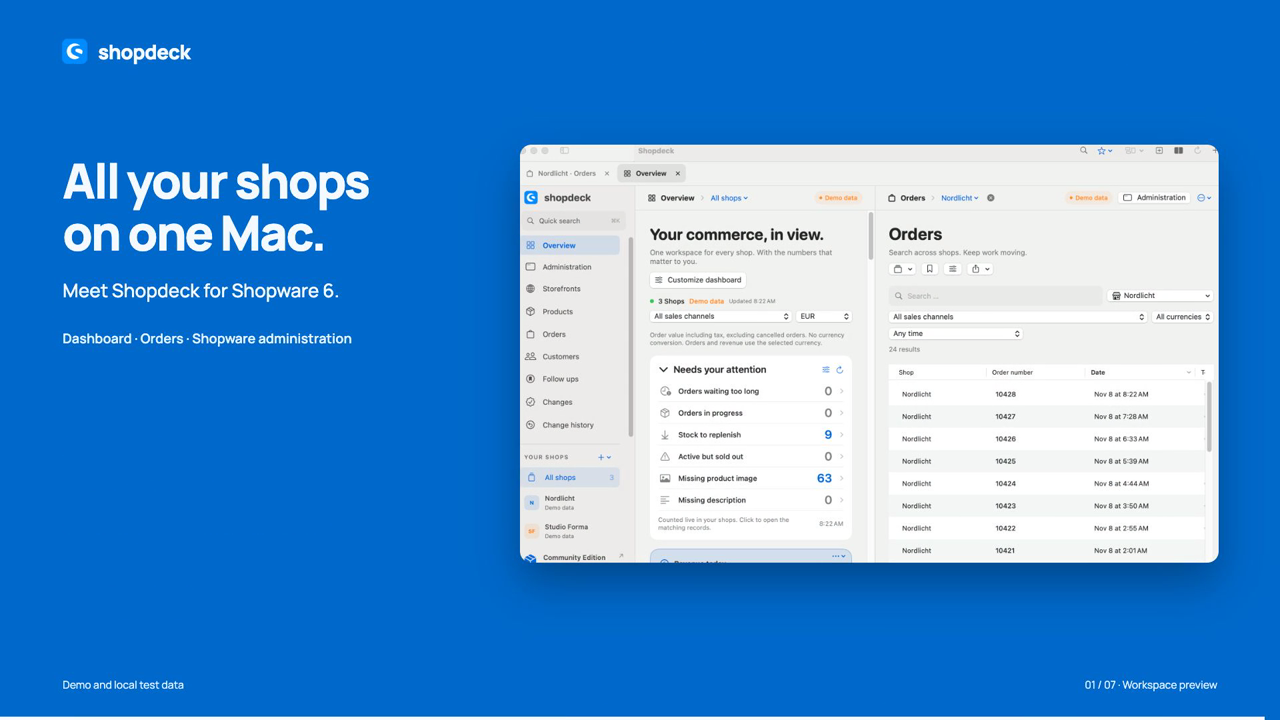
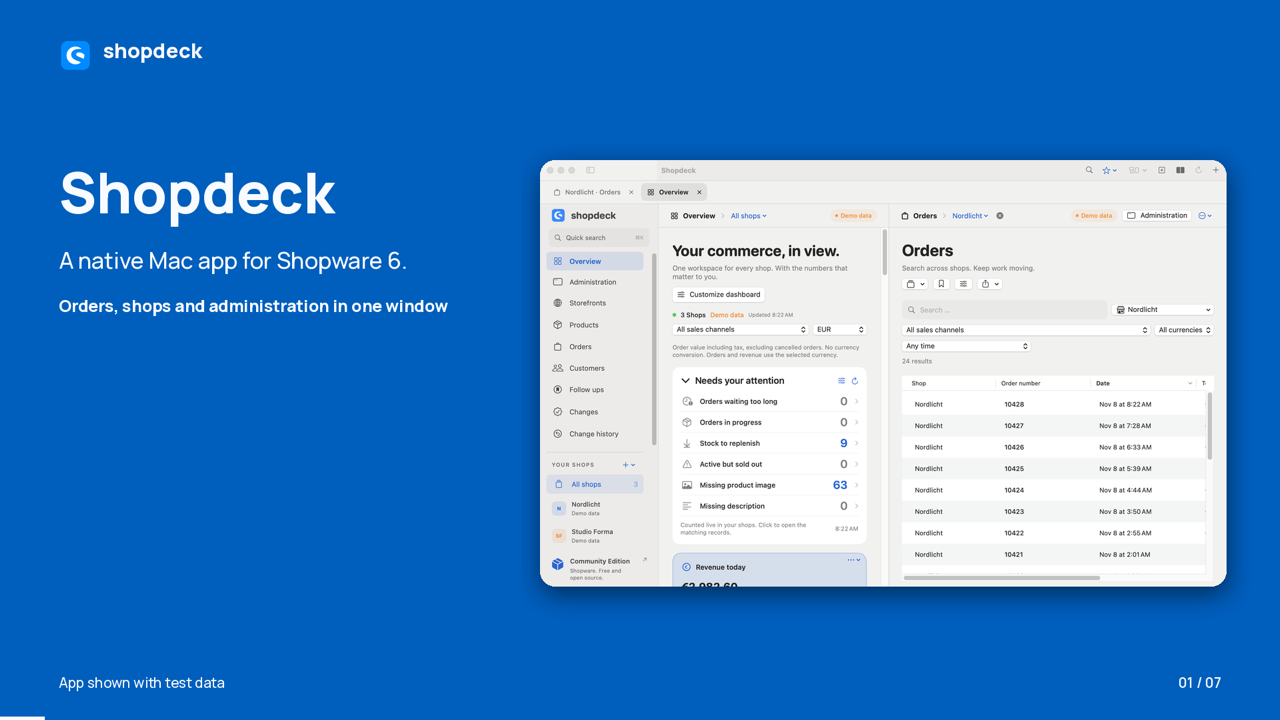
Replace the Shopdeck tour with a silent playback-verified cut [skip ci]

diff --git a/docs/video.md b/docs/video.md
@@ -2,15 +2,14 @@
 
 ## 30 second product tour
 
-Start with the dashboard and follow an order from search to picking and documents. The tour also shows Codex and Claude setup, a reviewed campaign proposal and the widget gallery. It uses English narration and captures from the workspace preview on `main` alongside existing picking, document and campaign examples.
+The 30 second tour uses English text on screen and plays silently. It shows the native Mac workspace, quick search, picking, the local MCP connection for Codex and Claude, approval of proposed changes, and the dashboard widget gallery.
 
 [![Shopdeck product tour with dashboard and order list side by side](screenshots/tour-poster.png)](https://github.com/sthamann/shopdeck/releases/download/v0.12.0/Shopdeck-Tour-English.mp4)
 
 - [Landscape film, 1920 × 1080](https://github.com/sthamann/shopdeck/releases/download/v0.12.0/Shopdeck-Tour-English.mp4)
 - [Vertical film for LinkedIn, 1080 × 1350](https://github.com/sthamann/shopdeck/releases/download/v0.12.0/Shopdeck-Tour-LinkedIn-English.mp4)
-- [English captions](https://github.com/sthamann/shopdeck/releases/download/v0.12.0/Shopdeck-Tour-English.srt)
 
-## Stable release tour
+## Archive: Shopdeck 0.12 tour
 
 The original 30 second English tour shows Shopdeck 0.12 with demo and local test data.
 
@@ -20,6 +19,6 @@ The original 30 second English tour shows Shopdeck 0.12 with demo and local test
 
 The film covers multi shop search, relative date filters, bookmarks, picking lists and printable exports, order PDFs, follow ups, Codex and Claude with reviewed changes, dashboard metrics, native desktop widgets, saved workspaces and local Docker test shops.
 
-Both versions contain English narration and music. The main titles are embedded so the story also works without sound. The feed edition uses its own layout rather than a crop of the landscape film.
+The archived 0.12 tour includes English narration and music.
 
 The app and its releases remain available at [sthamann/shopdeck](https://github.com/sthamann/shopdeck).

diff --git a/README.md b/README.md
@@ -16,7 +16,7 @@ Shopdeck is a native macOS app for Shopware 6. Open your shops in one place, fin
 3. **Keep track of the next step.** Bookmark a record, leave a private note or set a follow up with an optional macOS reminder.
 4. **Give your AI a shop connection you control.** Connect Codex or Claude through the local MCP server, choose which shops it can access and review proposed writes before applying them.
 
-[Watch the English product tour](https://github.com/sthamann/shopdeck/releases/download/v0.12.0/Shopdeck-Tour-English.mp4) · [Vertical edition and captions](docs/video.md)
+[Watch the English product tour](https://github.com/sthamann/shopdeck/releases/download/v0.12.0/Shopdeck-Tour-English.mp4) · [Vertical edition for LinkedIn](docs/video.md)
 
 ## Open the Shopware administration
 
